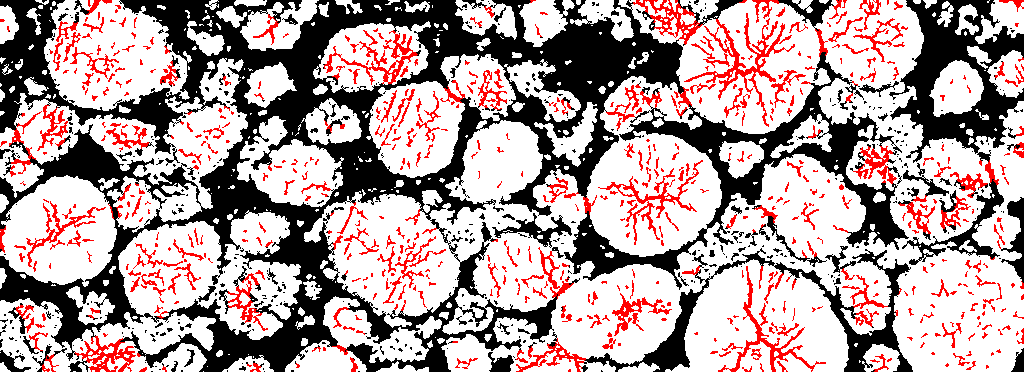
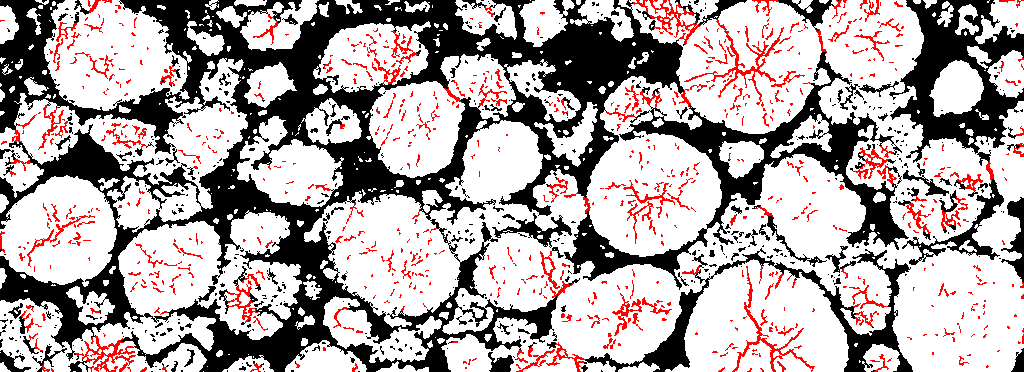
Thin sample1's cracks to the dark lines in the image
Crack pixels no darker than their surroundings become particle, and
lines running along pore become pore: 30 043 crack pixels to 17 648.

diff --git a/docs/dino-features.md b/docs/dino-features.md
@@ -69,7 +69,7 @@ The seeds come from brightness, so particle/pore/binder favour brightness featur
 
 | Sample | Classes | Built with |
 |---|---|---|
-| 1 | particle (white), pore (black), crack (red); every pixel scored | `make_truth.py`, then binder merged into pore; unscored specks under 30 px take their nearest label, wider unscored areas split at the particle edge level (141.5) |
+| 1 | particle (white), pore (black), crack (red); every pixel scored | `make_truth.py`, then binder merged into pore; unscored specks under 30 px take their nearest label, wider unscored areas split at the particle edge level (141.5). Cracks are then thinned to pixels at least 12 gray levels darker than a 5 px closing of the image; crack lines lying mostly along pore are pore |
 | 2 | particle, pore, crack, binder | `make_truth.py --scale .5 --split`: smaller particles, and dark gaps on watershed lines between touching particles are pore |
 | 3 | large, small, background | `make_size_truth.py`, size rule (same as `eval/truth/sample3_size_mask.png`) |
 | 4 | particle, pore, crack | `make_sample4_truth.py`: polished graphite sections; surfaces below the section plane, marked by hand boxes, are pore |
